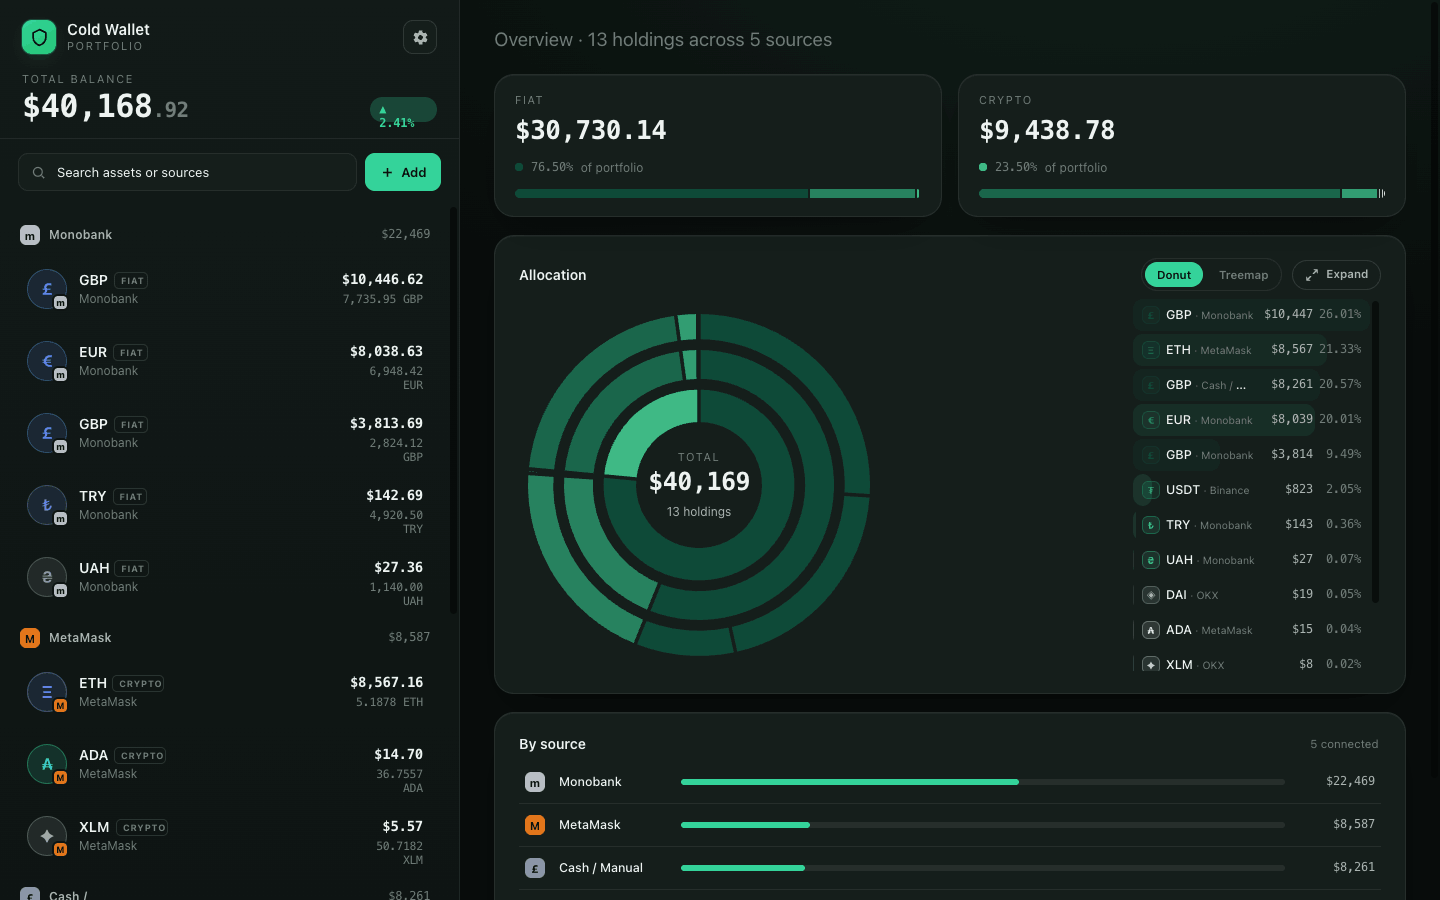
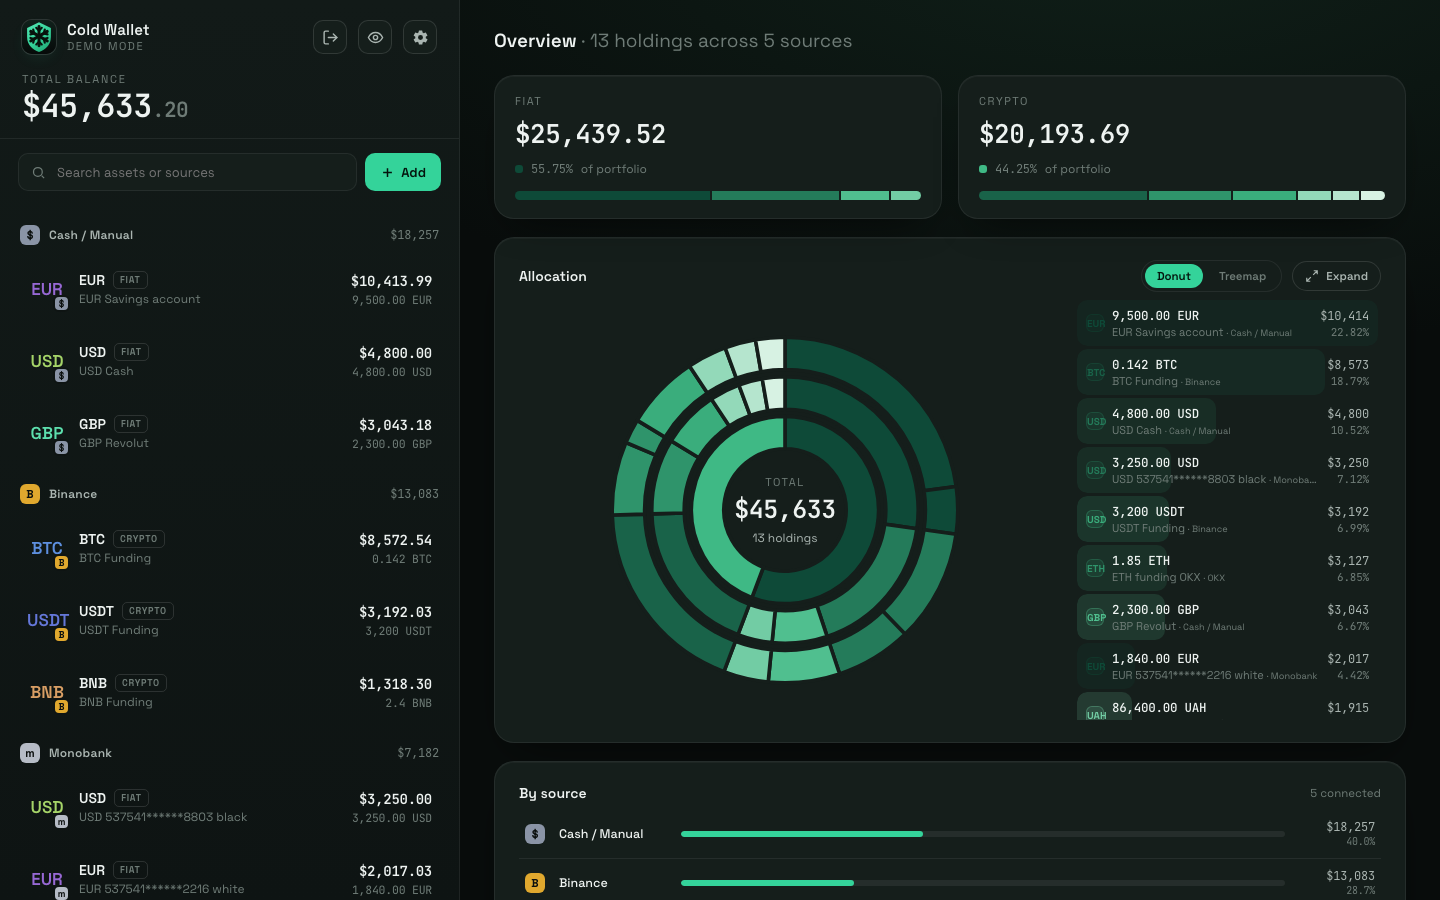
feat(demo): fixed realistic demo portfolio; fix MetaMask list freezing; new hero shot
Demo data was random on every visit (1-5 assets per source, "demo amount"
labels, manual assets randomly flagged as Binance/OKX/MetaMask), so the
demo and the landing screenshot looked fake. Replace it with a fixed set:
13 holdings across Cash/Manual, Monobank, Binance, OKX and MetaMask, ~56%
fiat / 44% crypto, labelled in the formats the real integrations produce.

MetaMaskLoader's metaMaskAssets memo depended only on metaMaskUserData, so
it froze on the first render: in demo mode (not yet on) it stayed [] for
the whole session, and in real mode it stayed empty if binanceCurrencies
arrived after the last balance update. Add the missing dependencies.

Retake public/hero-demo.png from the real /demo (1440x900). The old image
was the design-handoff mock-up with the previous shield logo and a broken
"▲ 2.41%" pill.

diff --git a/src/core/utils/DemoAssetsGenerator/index.ts b/src/core/utils/DemoAssetsGenerator/index.ts
@@ -4,7 +4,67 @@ import UserData, {MetaMaskIntegrationSettingsData, UserSettings} from "../../dom
 import {AddressBalanceResult, MetaMaskAccount} from "../../integrations/metamask/MetaMaskWallet";
 import {initUserDataHolder} from "../../services/UserDataService";
 
-/** Builds a fresh demo UserDataHolder (random demo assets + demo settings), already in demo mode. */
+/*
+ * Demo portfolio: a fixed, realistic set of holdings (same on every visit) so the demo — and the
+ * landing's hero screenshot taken from it — always shows a believable mix of fiat and crypto
+ * across every source. Labels follow the formats the real integrations produce
+ * (monobankApiClient, BinanceApiService, okxApiClient, MetaMaskLoader), so a demo row looks
+ * exactly like a connected one. Addresses and card numbers are made up.
+ */
+
+type Source = 'manual' | 'binance' | 'monobank' | 'okx' | 'metamask';
+type DemoHolding = { currency: string; amount: string; name: string; type: AssetType };
+
+const FIAT_SCALE = 2;
+const CRYPTO_SCALE = 8;
+const DEMO_WALLET = '0x8b2f41c97e0d6a35f1c4e2b9a07d3e5c6f9a1b24';
+
+const MANUAL: DemoHolding[] = [
+    {currency: 'EUR', amount: '9500.00', name: 'Savings account', type: AssetType.fiat},
+    {currency: 'USD', amount: '4800.00', name: 'Cash', type: AssetType.fiat},
+    {currency: 'GBP', amount: '2300.00', name: 'Revolut', type: AssetType.fiat},
+];
+
+const MONOBANK: DemoHolding[] = [
+    {currency: 'UAH', amount: '86400.00', name: 'UAH 537541******4127 black', type: AssetType.fiat},
+    {currency: 'USD', amount: '3250.00', name: 'USD 537541******8803 black', type: AssetType.fiat},
+    {currency: 'EUR', amount: '1840.00', name: 'EUR 537541******2216 white', type: AssetType.fiat},
+];
+
+const BINANCE: DemoHolding[] = [
+    {currency: 'BTC', amount: '0.142', name: 'BTC Funding', type: AssetType.crypto},
+    {currency: 'USDT', amount: '3200', name: 'USDT Funding', type: AssetType.crypto},
+    {currency: 'BNB', amount: '2.4', name: 'BNB Funding', type: AssetType.crypto},
+];
+
+const OKX: DemoHolding[] = [
+    {currency: 'ETH', amount: '1.85', name: 'ETH funding OKX', type: AssetType.crypto},
+    {currency: 'SOL', amount: '24', name: 'SOL trading OKX', type: AssetType.crypto},
+];
+
+const METAMASK: DemoHolding[] = [
+    {currency: 'ETH', amount: '0.62', name: `ETH Ethereum ${DEMO_WALLET}`, type: AssetType.crypto},
+    {currency: 'USDC', amount: '1250', name: `USDC Base ${DEMO_WALLET}`, type: AssetType.crypto},
+];
+
+function toAssets(holdings: DemoHolding[], source: Source): AssetDTO[] {
+    return holdings.map(({currency, amount, name, type}) => new AssetDTO(
+        uuidGenerator.generateUUID(),
+        currency,
+        amount,
+        name,
+        type === AssetType.fiat ? FIAT_SCALE : CRYPTO_SCALE,
+        type,
+        source === 'binance',
+        source === 'monobank',
+        source === 'okx',
+        false,
+        null,
+        source === 'metamask',
+    ));
+}
+
+/** Builds a fresh demo UserDataHolder (demo manual holdings + demo settings), already in demo mode. */
 export function buildDemoUserDataHolder() {
     const userData = new UserData(
         uuidGenerator.generateUUID(),
@@ -14,168 +74,25 @@ export function buildDemoUserDataHolder() {
     return initUserDataHolder(userData, true);
 }
 
+/** Hand-entered ("Cash / Manual") demo holdings. Integration holdings come from the loaders below. */
+export function createDemoAssets() {
+    return toAssets(MANUAL, 'manual');
+}
+
 export function createDemoBinanceAssets() {
-    const length = 1 + Math.random() * 5;
-    return Array.from({length}, () => {
-        const currency = getRandomCryptoCurrency();
-        return new AssetDTO(
-            uuidGenerator.generateUUID(),
-            currency,
-            getRandomAmount(currency, AssetType.crypto).toString(),
-            "demo binance amount",
-            8,
-            AssetType.crypto,
-            true,
-            false,
-            false,
-            false,
-            null,
-            false,
-        )
-    })
+    return toAssets(BINANCE, 'binance');
 }
 
 export function createDemoOkxAssets() {
-    const length = 1 + Math.random() * 5;
-    return Array.from({length}, () => {
-        const currency = getRandomCryptoCurrency();
-        return new AssetDTO(
-            uuidGenerator.generateUUID(),
-            currency,
-            getRandomAmount(currency, AssetType.crypto).toString(),
-            "demo okx amount",
-            8,
-            AssetType.crypto,
-            false,
-            false,
-            true,
-            false,
-            null,
-            false,
-        )
-    })
+    return toAssets(OKX, 'okx');
 }
 
 export function createDemoMetamaskAssets() {
-    const length = 1 + Math.random() * 5;
-    return Array.from({length}, () => {
-        const currency = getRandomCryptoCurrency();
-        return new AssetDTO(
-            uuidGenerator.generateUUID(),
-            currency,
-            getRandomAmount(currency, AssetType.crypto).toString(),
-            "demo metamask amount",
-            8,
-            AssetType.crypto,
-            false,
-            false,
-            false,
-            false,
-            null,
-            true,
-        )
-    })
+    return toAssets(METAMASK, 'metamask');
 }
 
 export function createDemoMonobankAssets() {
-    const length = 1 + Math.random() * 5;
-    return Array.from({length}, () => {
-        const currency = getRandomFiatCurrency();
-        return new AssetDTO(
-            uuidGenerator.generateUUID(),
-            currency,
-            getRandomAmount(currency, AssetType.fiat).toString(),
-            "demo monobank amount",
-            8,
-            AssetType.fiat,
-            false,
-            true,
-            false,
-            false,
-            null,
-            false,
-        )
-    })
-}
-
-export function createDemoAssets() {
-    function createDemoAsset() {
-        function generateOneRandomTrue(length: number): boolean[] {
-            const arr = Array.from({length}, () => false);
-            const randomIndex = Math.floor(Math.random() * arr.length);
-            arr[randomIndex] = true;
-            return arr;
-        }
-
-        const {currency, type} = getRandomCurrency();
-        const randomArr = generateOneRandomTrue(4);
-        const isCrypto = type === AssetType.crypto;
-        return new AssetDTO(
-            uuidGenerator.generateUUID(),
-            currency,
-            getRandomAmount(currency, type).toString(),
-            "demo amount",
-            8,
-            type,
-            isCrypto && randomArr[0],
-            isCrypto && randomArr[1],
-            isCrypto && randomArr[2],
-            false,
-            null,
-            isCrypto && randomArr[3]
-        )
-    }
-
-    const length = 1 + Math.random() * 5;
-    return Array.from({length}, createDemoAsset);
-}
-
-function getRandomBoolean() {
-    return Math.random() < 0.5;
-}
-
-function getRandomCurrency() {
-    const type = getRandomBoolean() ? AssetType.crypto : AssetType.fiat;
-    return {
-        currency: type === AssetType.crypto ? getRandomCryptoCurrency() : getRandomFiatCurrency(),
-        type: type,
-    };
-}
-
-function getRandomCryptoCurrency(): string {
-    return [
-        "BTC",
-        "ETH",
-        "SOL",
-        "USDT",
-        "USDC",
-        "DOT",
-        "DAI",
-        "BNB",
-        "XRP",
-        "XLM",
-        "ADA",
-    ][Number((Math.random() * 10).toFixed())];
-}
-
-function getRandomFiatCurrency(): string {
-    return [
-        "UAH",
-        "USD",
-        "EUR",
-        "GBP",
-        "TRY",
-        "PLN",
-    ][Number((Math.random() * 5).toFixed())];
-}
-
-function getRandomAmount(currency: string, type: AssetType = AssetType.crypto): number {
-    const amount = Math.random() * (currency === "BTC" ? Math.random()// * Math.random() * 10
-            : currency === "ETH" || currency === "BNB" ? 10
-                : (type === AssetType.fiat ? 10000 : currency.startsWith("USD") ? 1000 : 100)
-    );
-    // Fiat currencies can't have more than 2 decimal places.
-    return type === AssetType.fiat ? Number(amount.toFixed(2)) : amount;
+    return toAssets(MONOBANK, 'monobank');
 }
 
 export function createDemoUserSettings() {
@@ -211,4 +128,3 @@ export function createDemoUserSettings() {
         } as MetaMaskIntegrationSettingsData
     );
 }
-

diff --git a/src/core/integrations/metamask/MetaMaskLoader.ts b/src/core/integrations/metamask/MetaMaskLoader.ts
@@ -242,7 +242,9 @@ export default function MetaMaskLoader(
                 true,
             )
         })
-    }, [metaMaskUserData])
+        // All inputs the memo reads: with only metaMaskUserData here, it froze on the first render
+        // (demo mode not on yet / binanceCurrencies still null) and stayed [] until balances changed.
+    }, [isDemoMode, binanceCurrencies, userData.settings?.metaMask?.enabled, metaMaskUserData])
 
     const fetchAllBalances = async (requests: BalanceRequest[]) => {
         const tokenRequests = requests
